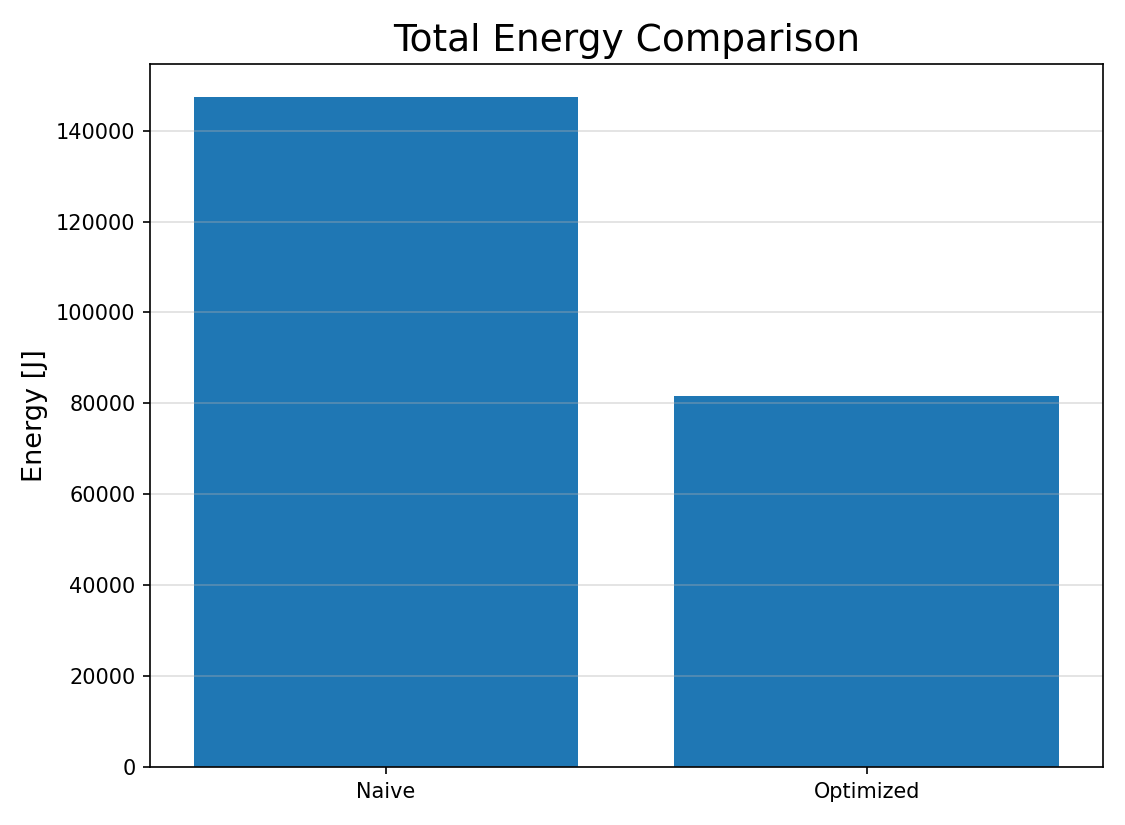
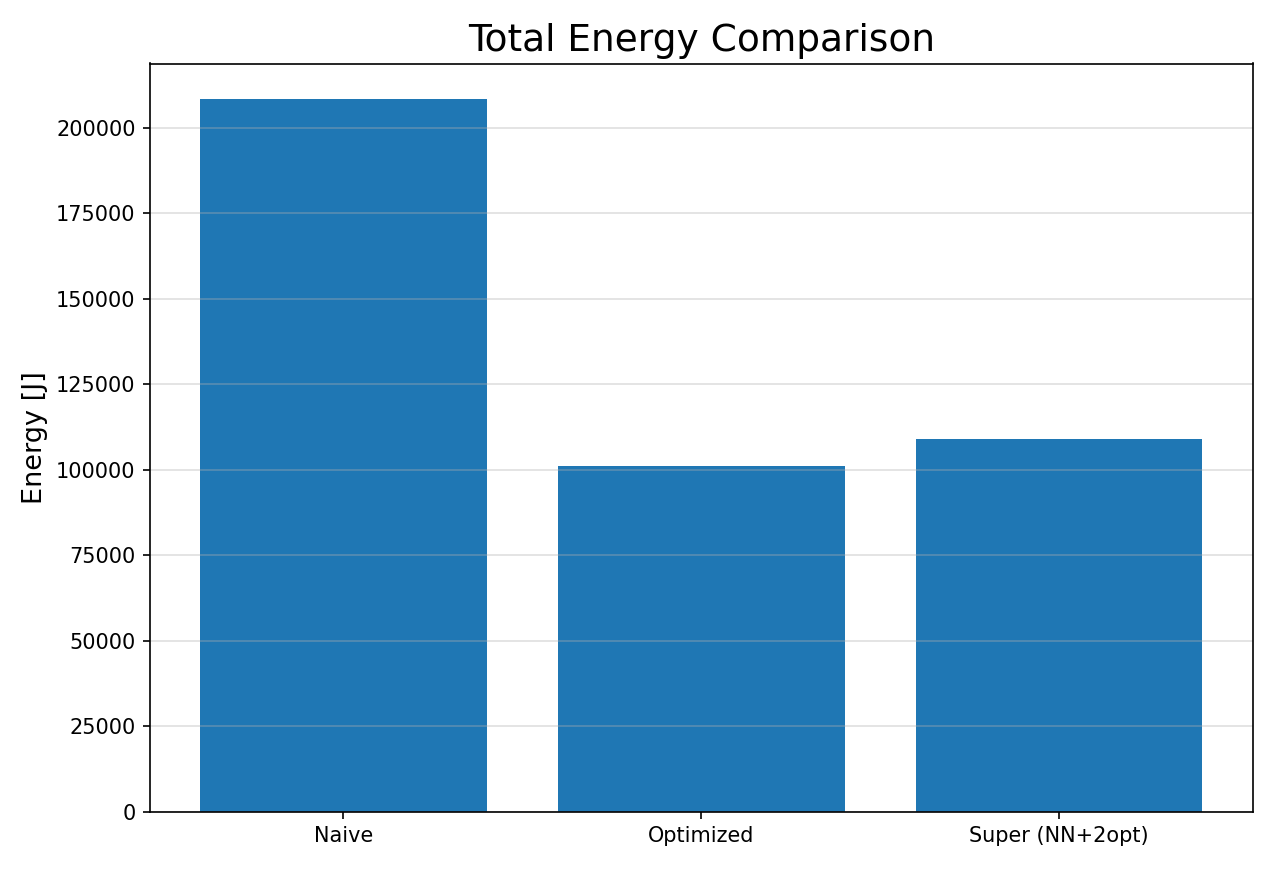
final version

Changed region(s): [[0.0, 0.0303, 0.9956, 0.9697]]

diff --git a/final_project/main.py b/final_project/main.py
@@ -1,4 +1,10 @@
-"""Orchestrates the drone routing optimization pipeline (stop at each waypoint)."""
+"""Orchestrates the drone routing optimization pipeline (stop at each waypoint).
+
+Outputs (in ./plots):
+- energy_curve.png
+- route_map.png          (3 panels: naive | optimized (exact) | super (NN+2opt))
+- total_energy.png       (3 bars: naive | optimized | super)
+"""
 
 from __future__ import annotations
 
@@ -16,7 +22,7 @@ from plotting import Visualizer
 from targets import Targets
 
 
-def main(simulation_config: SimulationConfig | None = None, tsp_method: str = "brute") -> None:
+def main(simulation_config: SimulationConfig | None = None) -> None:
     config = simulation_config or get_default_sim_config()
     params = get_default_params()
 
@@ -33,61 +39,79 @@ def main(simulation_config: SimulationConfig | None = None, tsp_method: str = "b
     physics = DronePhysics(params)
     optimizer = RoutingOptimizer(physics)
 
+    # Build energy/time matrices using physics-based segment optimization
     energy_matrix, time_matrix = optimizer.build_energy_matrix(distance_matrix)
 
-    method = "nearest_neighbor" if tsp_method == "nn" else "brute"
-    optimal_order = optimizer.solve_tsp(energy_matrix, method=method)
-
+    # --- Three routes ---
     naive_order = list(range(n))
 
+    # "Optimized" = exact (for small n) using brute-force TSP over energy_matrix
+    if n <= 10:
+        optimized_order = optimizer.solve_tsp(energy_matrix, method="brute")
+    else:
+        optimized_order = optimizer.solve_tsp(energy_matrix, method="nn_2opt")
+
+    # "Super" = nearest-neighbor initialization + 2-opt local improvement
+    super_order = optimizer.solve_tsp(energy_matrix, method="nn_2opt")
+
+    # --- Helpers for totals ---
     def route_energy(order: list[int]) -> float:
         total = 0.0
         for k in range(len(order)):
             i, j = order[k], order[(k + 1) % len(order)]
-            total += energy_matrix[i, j]
+            total += float(energy_matrix[i, j])
         return total
 
     def route_time(order: list[int]) -> float:
         total = 0.0
         for k in range(len(order)):
             i, j = order[k], order[(k + 1) % len(order)]
-            total += time_matrix[i, j]
+            total += float(time_matrix[i, j])
         return total
 
-    optimal_energy = route_energy(optimal_order)
     naive_energy = route_energy(naive_order)
+    optimized_energy = route_energy(optimized_order)
+    super_energy = route_energy(super_order)
 
-    optimal_time = route_time(optimal_order)
     naive_time = route_time(naive_order)
+    optimized_time = route_time(optimized_order)
+    super_time = route_time(super_order)
 
+    # --- Console output ---
     print("=== Drone Routing Optimization (Stop-at-Waypoint) ===")
     print(f"Waypoints (x,y):\n{waypoints}\n")
-    print(f"Naive route indices:    {naive_order}")
-    print(f"Optimized route indices:{optimal_order}\n")
 
-    print("=== Energy Comparison ===")
+    print("=== Route Indices (cycle closes back to 0) ===")
+    print(f"Naive:     {naive_order}")
+    print(f"Optimized: {optimized_order}   (exact brute-force over energy)")
+    print(f"Super:     {super_order}       (nearest-neighbor + 2-opt)\n")
+
+    print("=== Total Energy Comparison ===")
     print(f"Naive energy:     {naive_energy:.2f} J")
-    print(f"Optimized energy: {optimal_energy:.2f} J")
-    print(f"Energy saved:     {naive_energy - optimal_energy:.2f} J\n")
+    print(f"Optimized energy: {optimized_energy:.2f} J")
+    print(f"Super energy:     {super_energy:.2f} J\n")
 
-    print("=== Time (sum of per-segment Tmin) ===")
-    print(f"Naive total time:     {naive_time:.2f} s")
-    print(f"Optimized total time: {optimal_time:.2f} s")
+    print("=== Total Time (sum of per-segment Tmin) ===")
+    print(f"Naive time:     {naive_time:.2f} s")
+    print(f"Optimized time: {optimized_time:.2f} s")
+    print(f"Super time:     {super_time:.2f} s")
 
+    # --- Plots ---
     visualizer = Visualizer()
     visualizer.plot_energy_curve(physics, distance=1000.0)
 
-    # Two-panel naive vs optimized route
-    visualizer.plot_routes(
+    # 3-panel route plot + 3-bar energy plot
+    visualizer.plot_routes_three(
         waypoints=waypoints,
         naive_order=naive_order,
-        optimal_order=optimal_order,
+        optimized_order=optimized_order,
+        super_order=super_order,
+        filename="route_map.png",
     )
-
-    # Separate total energy figure
-    visualizer.plot_total_energy(
+    visualizer.plot_total_energy_three(
         naive_energy=naive_energy,
-        optimized_energy=optimal_energy,
+        optimized_energy=optimized_energy,
+        super_energy=super_energy,
         filename="total_energy.png",
     )
 
@@ -98,18 +122,13 @@ def main(simulation_config: SimulationConfig | None = None, tsp_method: str = "b
 
 
 if __name__ == "__main__":
-    parser = argparse.ArgumentParser(description="Drone routing optimization (stop at each waypoint)")
+    parser = argparse.ArgumentParser(
+        description="Drone routing optimization (stop at each waypoint) with 3 route comparisons"
+    )
     parser.add_argument("-n", "--num-targets", type=int, default=5)
     parser.add_argument("-s", "--seed", type=int, default=None)
-    parser.add_argument("--test", action="store_true")
-    parser.add_argument(
-        "-m",
-        "--method",
-        choices=["brute", "nn"],
-        default="brute",
-        help="TSP method: brute (exhaustive) or nn (nearest-neighbor). Brute is slow for many targets.",
-    )
+    parser.add_argument("--test", action="store_true", help="Use a fixed waypoint set for testing")
     args = parser.parse_args()
 
     cfg = get_test_sim_config() if args.test else SimulationConfig(num_targets=args.num_targets, seed=args.seed)
-    main(cfg, tsp_method=args.method)
+    main(cfg)

diff --git a/final_project/optimizer.py b/final_project/optimizer.py
@@ -3,6 +3,7 @@
 from __future__ import annotations
 
 import itertools
+from typing import Tuple
 
 import numpy as np
 
@@ -11,10 +12,12 @@ from physics import DronePhysics, SegmentResult
 
 class RoutingOptimizer:
     """
-    For each segment i->j:
-      - compute optimal time T_ij that minimizes segment energy
-      - energy_matrix[i,j] = E_min(d_ij)
-    Then solve TSP over that energy matrix.
+    Build energy_matrix[i,j] = E_min(d_ij), then solve a TSP-like tour.
+
+    Methods supported:
+      - brute: exact by enumerating permutations (small n only)
+      - nearest_neighbor: greedy heuristic
+      - nn_2opt: nearest neighbor initialization + 2-opt local search improvement
     """
 
     def __init__(self, physics_model: DronePhysics) -> None:
@@ -24,11 +27,6 @@ class RoutingOptimizer:
         return self.physics.find_optimal_time(distance)
 
     def build_energy_matrix(self, distance_matrix: np.ndarray) -> tuple[np.ndarray, np.ndarray]:
-        """
-        Returns:
-          energy_matrix: NxN energies
-          time_matrix:   NxN optimal segment times (for debugging/plots)
-        """
         n = distance_matrix.shape[0]
         energy_matrix = np.zeros((n, n), dtype=float)
         time_matrix = np.zeros((n, n), dtype=float)
@@ -45,14 +43,39 @@ class RoutingOptimizer:
 
         return energy_matrix, time_matrix
 
+    # ------------------ Public solver ------------------
+
     def solve_tsp(self, cost_matrix: np.ndarray, method: str = "brute") -> list[int]:
+        """
+        method:
+          - "brute"
+          - "nearest_neighbor"
+          - "nn_2opt"
+        """
         n = cost_matrix.shape[0]
         if n <= 1:
             return list(range(n))
 
         if method == "nearest_neighbor":
             return self._solve_nearest_neighbor(cost_matrix)
+        if method == "nn_2opt":
+            init = self._solve_nearest_neighbor(cost_matrix)
+            improved = self._two_opt(cost_matrix, init)
+            return improved
+
         return self._solve_brute(cost_matrix)
+
+    # ------------------ Core utilities ------------------
+
+    @staticmethod
+    def tour_cost(cost_matrix: np.ndarray, order: list[int]) -> float:
+        """Cycle cost: order[0] -> ... -> order[-1] -> order[0]."""
+        total = 0.0
+        for k in range(len(order)):
+            i = order[k]
+            j = order[(k + 1) % len(order)]
+            total += float(cost_matrix[i, j])
+        return total
 
     def _solve_brute(self, cost_matrix: np.ndarray) -> list[int]:
         n = cost_matrix.shape[0]
@@ -61,11 +84,7 @@ class RoutingOptimizer:
 
         for perm in itertools.permutations(range(1, n)):
             order = [0] + list(perm)
-            cost = 0.0
-            for k in range(len(order) - 1):
-                cost += cost_matrix[order[k], order[k + 1]]
-            cost += cost_matrix[order[-1], order[0]]
-
+            cost = self.tour_cost(cost_matrix, order)
             if cost < best_cost:
                 best_cost = cost
                 best_order = order
@@ -79,8 +98,46 @@ class RoutingOptimizer:
 
         while unvisited:
             cur = order[-1]
-            nxt = min(unvisited, key=lambda j: cost_matrix[cur, j])
+            nxt = min(unvisited, key=lambda j: float(cost_matrix[cur, j]))
             order.append(nxt)
             unvisited.remove(nxt)
 
         return order
+
+    # ------------------ 2-opt improvement ------------------
+
+    def _two_opt(self, cost_matrix: np.ndarray, order: list[int]) -> list[int]:
+        """
+        Standard 2-opt local search for a Hamiltonian cycle.
+        Keeps node 0 as the fixed start (order[0] == 0).
+        """
+        n = len(order)
+        if n < 4:
+            return order[:]  # nothing to improve
+
+        best = order[:]
+        best_cost = self.tour_cost(cost_matrix, best)
+
+        improved = True
+        while improved:
+            improved = False
+
+            # i and k define the segment [i:k] to reverse (2-opt move)
+            # We keep index 0 fixed, so start i at 1.
+            for i in range(1, n - 2):
+                for k in range(i + 1, n - 1):
+                    new_order = best[:]
+                    new_order[i : k + 1] = reversed(new_order[i : k + 1])
+
+                    new_cost = self.tour_cost(cost_matrix, new_order)
+
+                    # Accept first improving move (fast); could also do best-improvement
+                    if new_cost < best_cost:
+                        best = new_order
+                        best_cost = new_cost
+                        improved = True
+                        break
+                if improved:
+                    break
+
+        return best

diff --git a/final_project/plotting.py b/final_project/plotting.py
@@ -1,5 +1,3 @@
-"""Visualization of energy curves (E vs T) and 2D route maps."""
-
 from __future__ import annotations
 
 from pathlib import Path
@@ -14,12 +12,6 @@ PLOTS_DIR = Path(__file__).resolve().parent / "plots"
 
 
 class Visualizer:
-    """Plots energy vs time and 2D route maps."""
-
-    # -----------------------------------------------------------
-    # Energy vs Time (unchanged)
-    # -----------------------------------------------------------
-
     def plot_energy_curve(self, physics_model: DronePhysics, distance: float) -> None:
         T_low, T_high = physics_model.feasible_time_bounds(distance)
 
@@ -32,7 +24,6 @@ class Visualizer:
 
         fig, ax = plt.subplots(figsize=(9, 5.5))
         ax.plot(Ts, Es, linewidth=2, label="Energy vs Time")
-
         ax.scatter([T_opt], [E_opt], s=90, zorder=5, label=f"Tmin={T_opt:.2f}s")
         ax.axvline(T_opt, linestyle="--", alpha=0.6)
 
@@ -47,17 +38,23 @@ class Visualizer:
         fig.savefig(PLOTS_DIR / "energy_curve.png", dpi=150)
         plt.close(fig)
 
-    # -----------------------------------------------------------
-    # TWO PANEL ROUTE PLOT (naive + optimized)
-    # -----------------------------------------------------------
+    # ---------------- 3-panel route map ----------------
 
-    def plot_routes(
+    def plot_routes_three(
         self,
         waypoints: np.ndarray,
         naive_order: list[int],
-        optimal_order: list[int],
+        optimized_order: list[int],
+        super_order: list[int],
+        filename: str = "route_map.png",
     ) -> None:
-        fig, (ax_naive, ax_opt) = plt.subplots(1, 2, figsize=(14, 6))
+        """
+        Saves plots/route_map.png with 3 panels:
+          (1) Naive
+          (2) Optimized (exact: brute/HK)
+          (3) Super (NN + 2-opt)
+        """
+        fig, axes = plt.subplots(1, 3, figsize=(18, 6.2))
 
         def draw_route(ax: Axes, order: list[int], title: str) -> None:
             ax.scatter(waypoints[:, 0], waypoints[:, 1], s=70, zorder=3)
@@ -87,7 +84,7 @@ class Visualizer:
                         xytext=(x0, y0),
                         arrowprops=dict(
                             arrowstyle=arrow_style,
-                            lw=2.2,
+                            lw=2.1,
                             alpha=0.9,
                         ),
                     )
@@ -95,31 +92,35 @@ class Visualizer:
             ax.set_title(title, fontsize=16)
             ax.set_xlabel("x")
             ax.set_ylabel("y")
-            ax.grid(True, alpha=0.4)
+            ax.grid(True, alpha=0.35)
             ax.set_aspect("equal", adjustable="box")
 
-        draw_route(ax_naive, naive_order, "Naive Route")
-        draw_route(ax_opt, optimal_order, "Optimized Route")
+        draw_route(axes[0], naive_order, "Naive Route")
+        draw_route(axes[1], optimized_order, "Optimized Route (Exact)")
+        draw_route(axes[2], super_order, "Super Route (NN + 2-opt)")
 
         fig.tight_layout()
         PLOTS_DIR.mkdir(parents=True, exist_ok=True)
-        fig.savefig(PLOTS_DIR / "route_map.png", dpi=150)
+        fig.savefig(PLOTS_DIR / filename, dpi=150)
         plt.close(fig)
 
-    # -----------------------------------------------------------
-    # TOTAL ENERGY SEPARATE FIGURE
-    # -----------------------------------------------------------
+    # ---------------- 3-bar energy comparison ----------------
 
-    def plot_total_energy(
+    def plot_total_energy_three(
         self,
         naive_energy: float,
         optimized_energy: float,
+        super_energy: float,
         filename: str = "total_energy.png",
     ) -> None:
-        fig, ax = plt.subplots(figsize=(7.5, 5.5))
+        """
+        Saves plots/total_energy.png with 3 bars:
+        Naive, Optimized (exact), Super (NN + 2-opt)
+        """
+        fig, ax = plt.subplots(figsize=(8.5, 5.8))
 
-        labels = ["Naive", "Optimized"]
-        vals = [naive_energy, optimized_energy]
+        labels = ["Naive", "Optimized", "Super (NN+2opt)"]
+        vals = [naive_energy, optimized_energy, super_energy]
 
         ax.bar(labels, vals)
         ax.set_title("Total Energy Comparison", fontsize=18)
